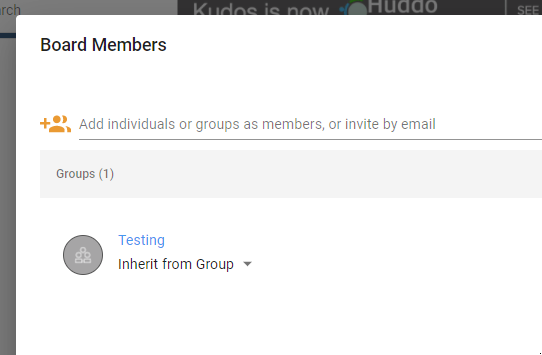
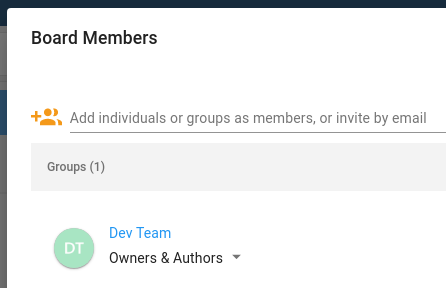
Updating community roles

diff --git a/docs/boards/cp/roles.md b/docs/boards/cp/roles.md
@@ -5,9 +5,11 @@ Boards has the following membership roles
 | Role                 | Description                                                                                                                                                      | Applicable for Community Membership |
 | -------------------- | ---------------------------------------------------------------------------------------------------------------------------------------------------------------- | ----------------------------------- |
 | Owner                | All members have full control over the Board.                                                                                                                    | Shared with <br> Owned by           |
+| Editor               | All members have access to create new content, and edit all content.                                                                                             | Shared with                         |
 | Author               | All members have access to create new content, and edit content they created.                                                                                    | Shared with                         |
 | Reader               | All members can only read content (no create or edit). <br> Any tasks they are assigned to, they can comment on and complete.                                    | Shared with                         |
-| Inherit              | Owners of the Community have `Owner` role. <br>Members of the Community have `Author` role                                                                       | Shared with <br> Owned by           |
+| Owners & Editors     | Owners of the Community have `Owner` role. <br>Members of the Community have `Editor` role                                                                       | Owned by                            |
+| Owners & Authors     | Owners of the Community have `Owner` role. <br>Members of the Community have `Author` role                                                                       | Shared with <br> Owned by           |
 | Owners & Readers     | Owners of the Community have `Owner` role. <br>Members of the Community have `Reader` role                                                                       | Owned by                            |
 | Community Owner Only | Owners of the Community have `Owner` role. <br> **Note: Community Members will see the title of the Board in the main list, but not be able to open/view/edit.** | Owned by                            |
 
@@ -27,7 +29,7 @@ When migrating from Activities, the permissions will be maintained. Below are so
 | Activities                                                                                         | Boards                                                                                                 |
 | -------------------------------------------------------------------------------------------------- | ------------------------------------------------------------------------------------------------------ |
 | Owners & Members assigned the Owner role ![acl](/assets/connections/roles/activity-all-owners.png) | Owner role is assigned to the entire community ![acl](/assets/connections/roles/board-all-owners.png)  |
-| Members are Authors ![acl](/assets/connections/roles/activity-owners-authors.png)                  | Role is `Inherit` as per above ![acl](/assets/connections/roles/board-owners-authors.png)              |
+| Members are Authors ![acl](/assets/connections/roles/activity-owners-authors.png)                  | Role is `Owners & Authors` as per above ![acl](/assets/connections/roles/board-owners-authors.png)              |
 | Members are Readers ![acl](/assets/connections/roles/activity-owners-readers.png)                  | Role is `Owners & Readers` as per above ![acl](/assets/connections/roles/board-owners-readers.png)     |
 | As above, with users specified ![acl](/assets/connections/roles/activity-owners-readers-users.png) | Each user is migrated with their role ![acl](/assets/connections/roles/board-owners-readers-users.png) |
 | Members have NO access ![acl](/assets/connections/roles/activity-owners-users.png)                 | Role is `Community Owners Only` as per above ![acl](/assets/connections/roles/board-owners-users.png)  |
